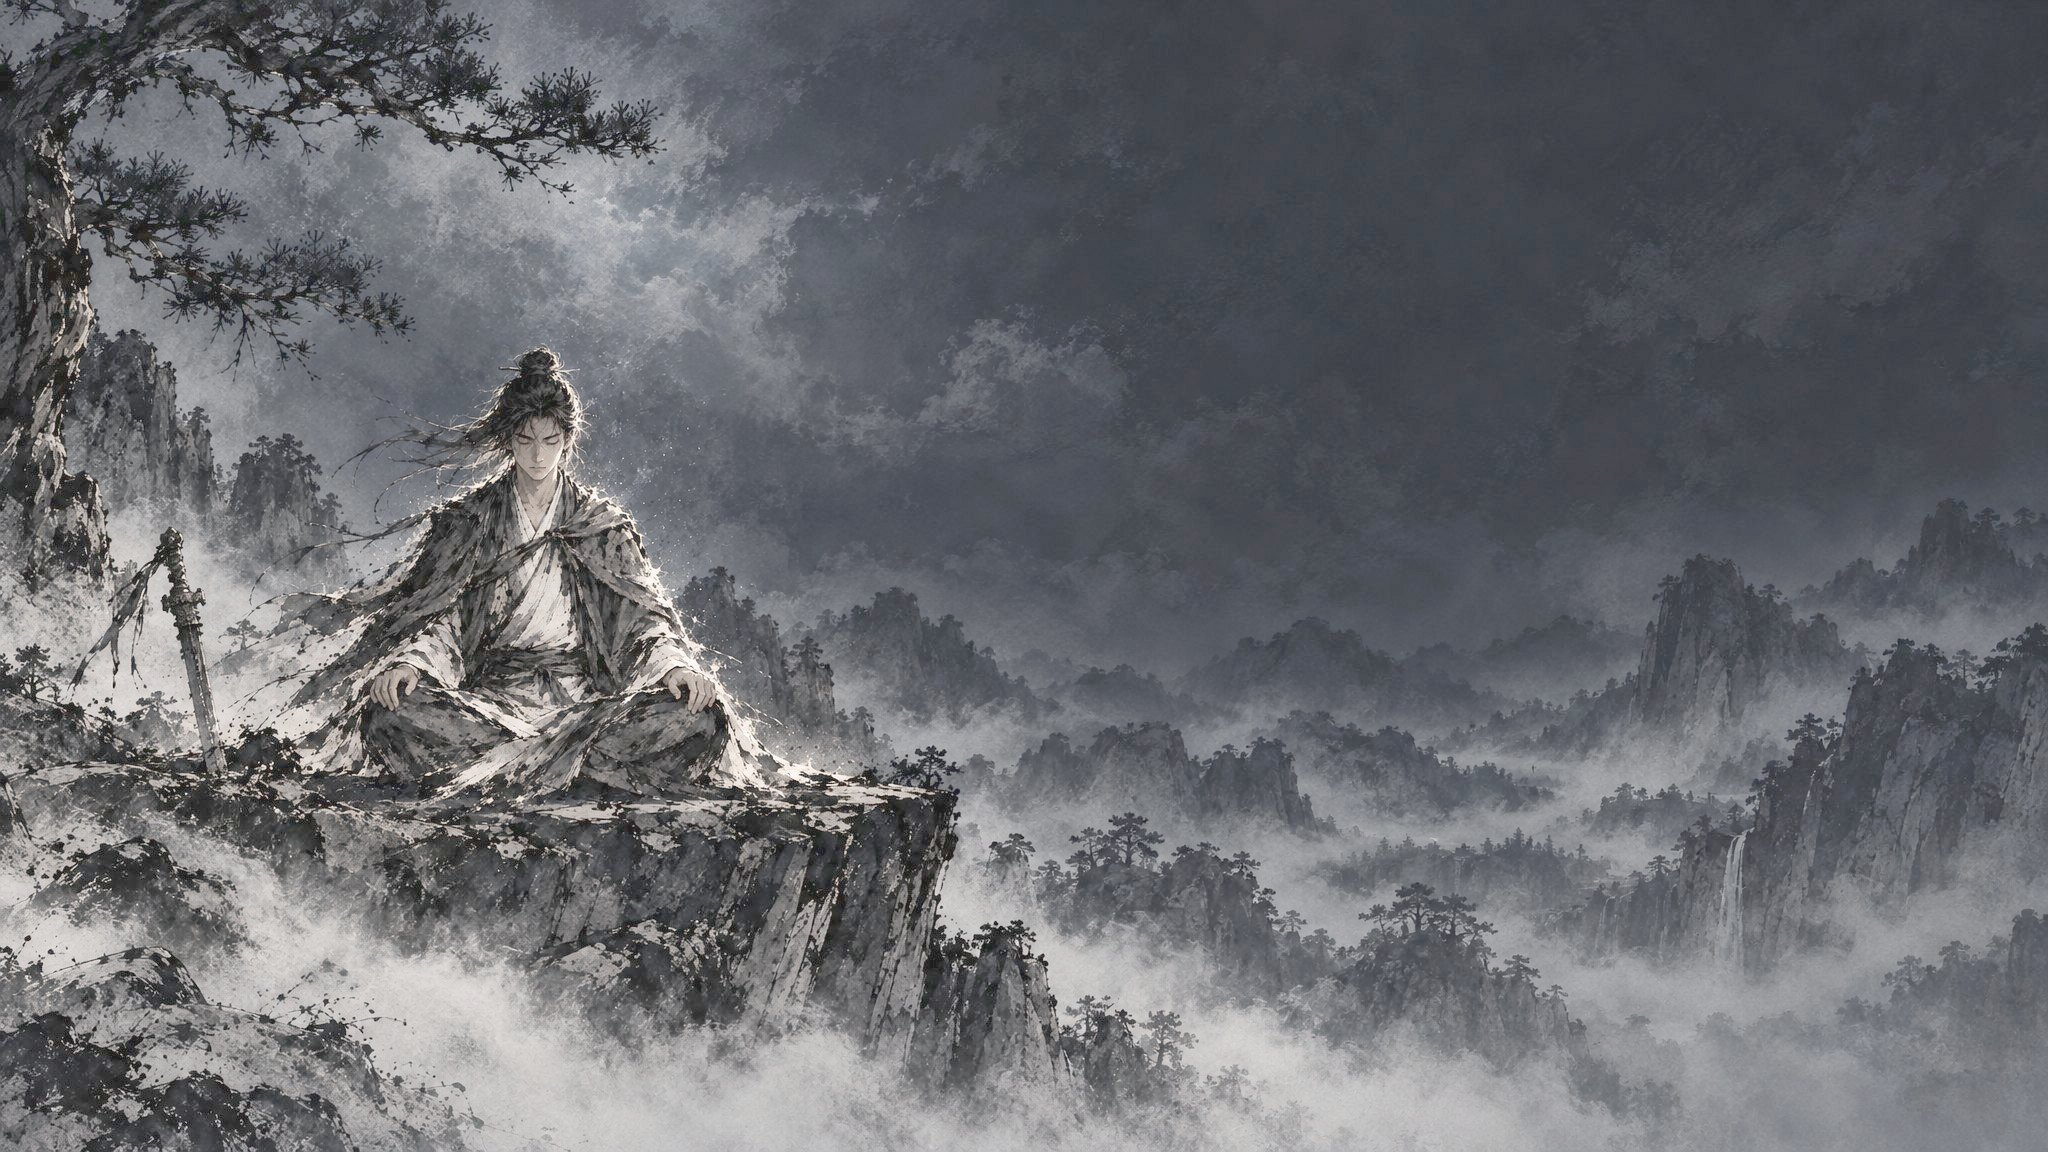
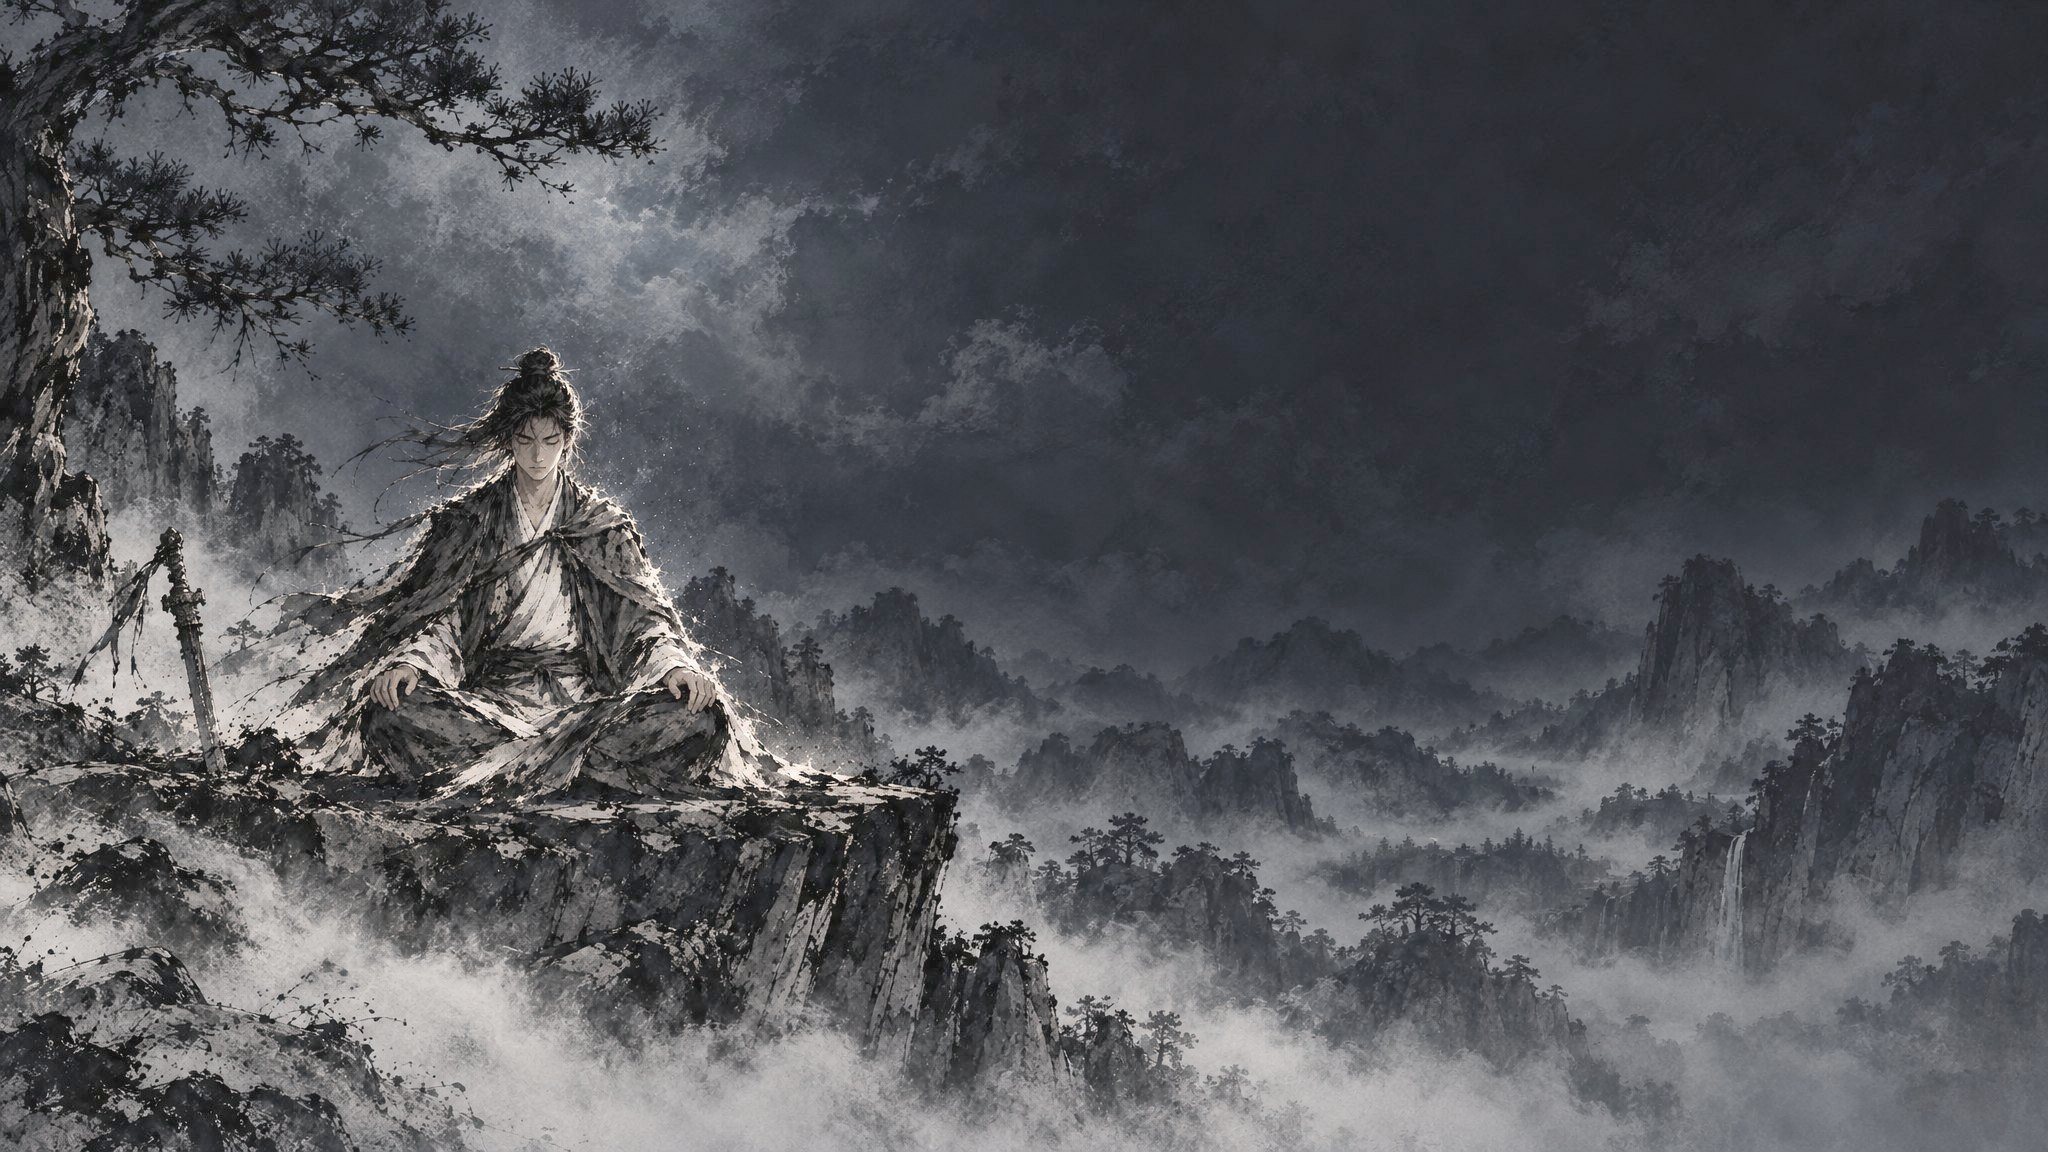
style(cultivate): 修炼底图淡墨版收一档到亮度 87

diff --git a/changelog.d/feature-qianchen-redesign.md b/changelog.d/feature-qianchen-redesign.md
@@ -6,4 +6,4 @@
 - **往世八相原型补机缘与侠名录**：机缘为江边老树两根绳上交错挂的十四支竹签，效果说明进悬停、已得盖印；侠名录为摩崖题刻，22 枚 AI 重画的墨拓徽记，铜 / 银 / 金三档以 AI 画的拓边区分，未得为风化残影；素材 `art/qianchen/jiyuan.jpg`、`xiaming-cliff.jpg`、`em/`。
 - **侠名录改「江湖百景」原型**：二十二枚徽记按武道 / 修行 / 江湖 / 世情散落在一幅 AI 江湖全景上，同类以暗金细线串连；档位只用暗金 → 亮金 → 亮金加朱印，未得为阴刻暗印；悬停在底部详情栏看当前加成与下一重进度。原型状态栏可切回旧版摩崖对比
 - **江湖百景点选成就弹卷轴**：点徽记弹出 AI 画的水墨手卷，写当前名号与加成、下一重名号与加成、解锁条件进度；未得的只写下一重与条件；总进度「得名 / 点亮」移到页头，底部详情栏去掉
-- **前尘与修炼底图改淡墨**：底蕴、机缘、侠名录与修炼四张底图按战斗舆图的墨色提亮（平均亮度 48–83 → 约 108，浓墨占比 25–61% → 约 5%），侠名录不再叠压灰滤镜，地名与成就名下垫晕墨保证淡雾上可读；原型状态栏可切回原调对比
+- **前尘与修炼底图改淡墨**：底蕴、机缘、侠名录三张底图按战斗舆图的墨色提亮（平均亮度 55–83 → 约 108，浓墨占比 25–41% → 约 5%），修炼底图收一档到约 87（浓墨 61% → 6%）保留夜色；侠名录不再叠压灰滤镜，地名与成就名下垫晕墨保证淡雾上可读；原型状态栏可切回原调对比
